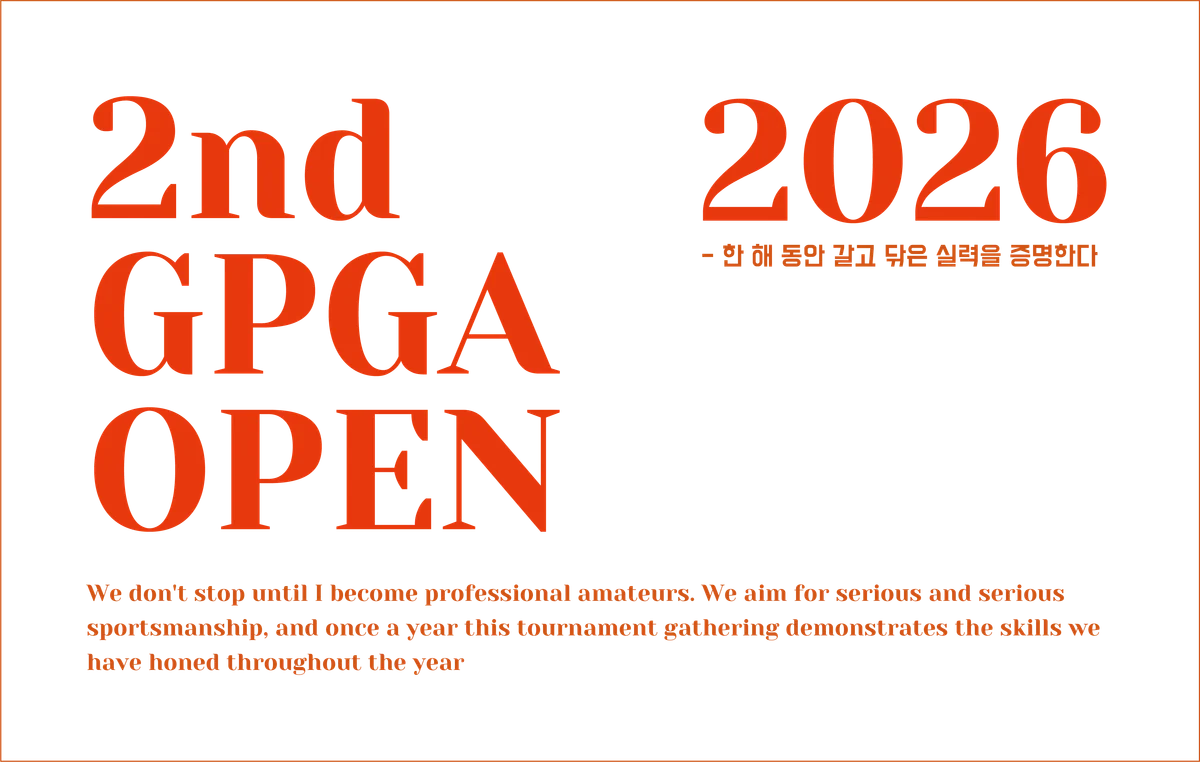
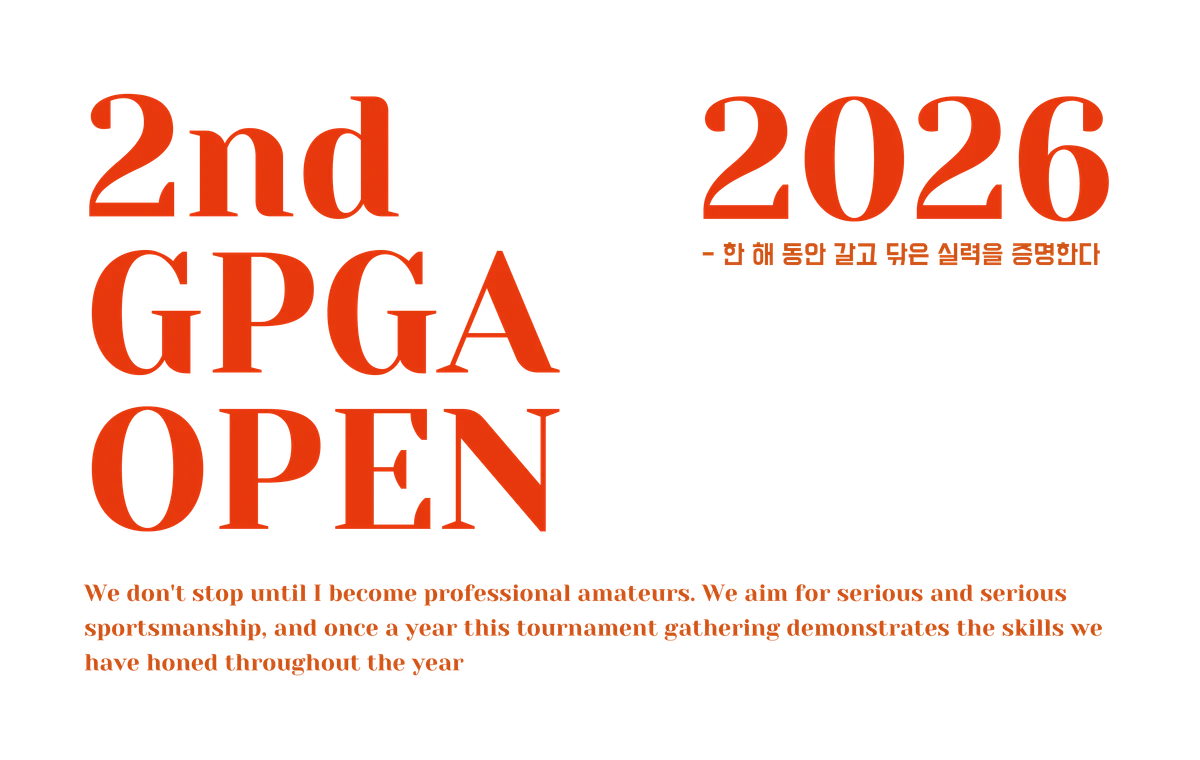
스폰서 타이틀 이미지: 둥근 모서리에 잘리던 이미지 테두리를 CSS 테두리로 교체(네 변 같은 두께) + 카드 여백 균일

diff --git a/event.html b/event.html
@@ -452,13 +452,14 @@
     .detail-sponsor-wrap { margin: 28px 14px 32px; }
     .sp-wall {
       background: rgba(255,255,255,0.03); border: 1px solid var(--border);
-      border-radius: 14px; padding: 14px 12px 16px; overflow: hidden;
+      border-radius: 14px; padding: 16px; overflow: hidden;
     }
-    .sp-title-img {
-      display: block; width: 100%; height: auto; border-radius: 10px;
-      position: relative; overflow: hidden;
+    .sp-title-img { display: block; width: 100%; height: auto; }
+    /* 이미지 자체 테두리는 잘라냈고, 둥근 모서리에 맞춰 CSS 로 고르게 다시 그림 */
+    .sp-title-box {
+      position: relative; overflow: hidden; margin-bottom: 16px;
+      border: 1.5px solid #d15316; border-radius: 10px;
     }
-    .sp-title-box { position: relative; border-radius: 10px; overflow: hidden; margin-bottom: 16px; }
     /* 타이틀 이미지에 한 번 스치는 빛 */
     .sp-title-box::after {
       content: ''; position: absolute; top: 0; bottom: 0; left: -60%; width: 40%;
@@ -4252,7 +4253,7 @@ function clearAdminForm() {
 
 // 스폰서 영역 타이틀 이미지 (대회 id → 이미지)
 const SPONSOR_TITLE_IMG = {
-  'uoLAb4oGaA6WoSXAVxId': 'image/2nd-gpga-open-title.webp', // 2nd GPGA OPEN
+  'uoLAb4oGaA6WoSXAVxId': 'image/2nd-gpga-open-title.webp?v=2', // 2nd GPGA OPEN
 };
 
 // 스폰서 영역이 화면에 들어오면 한 번 등장 액션 (실시간 갱신으로 다시 그려져도 이미 본 뒤엔 바로 표시)
